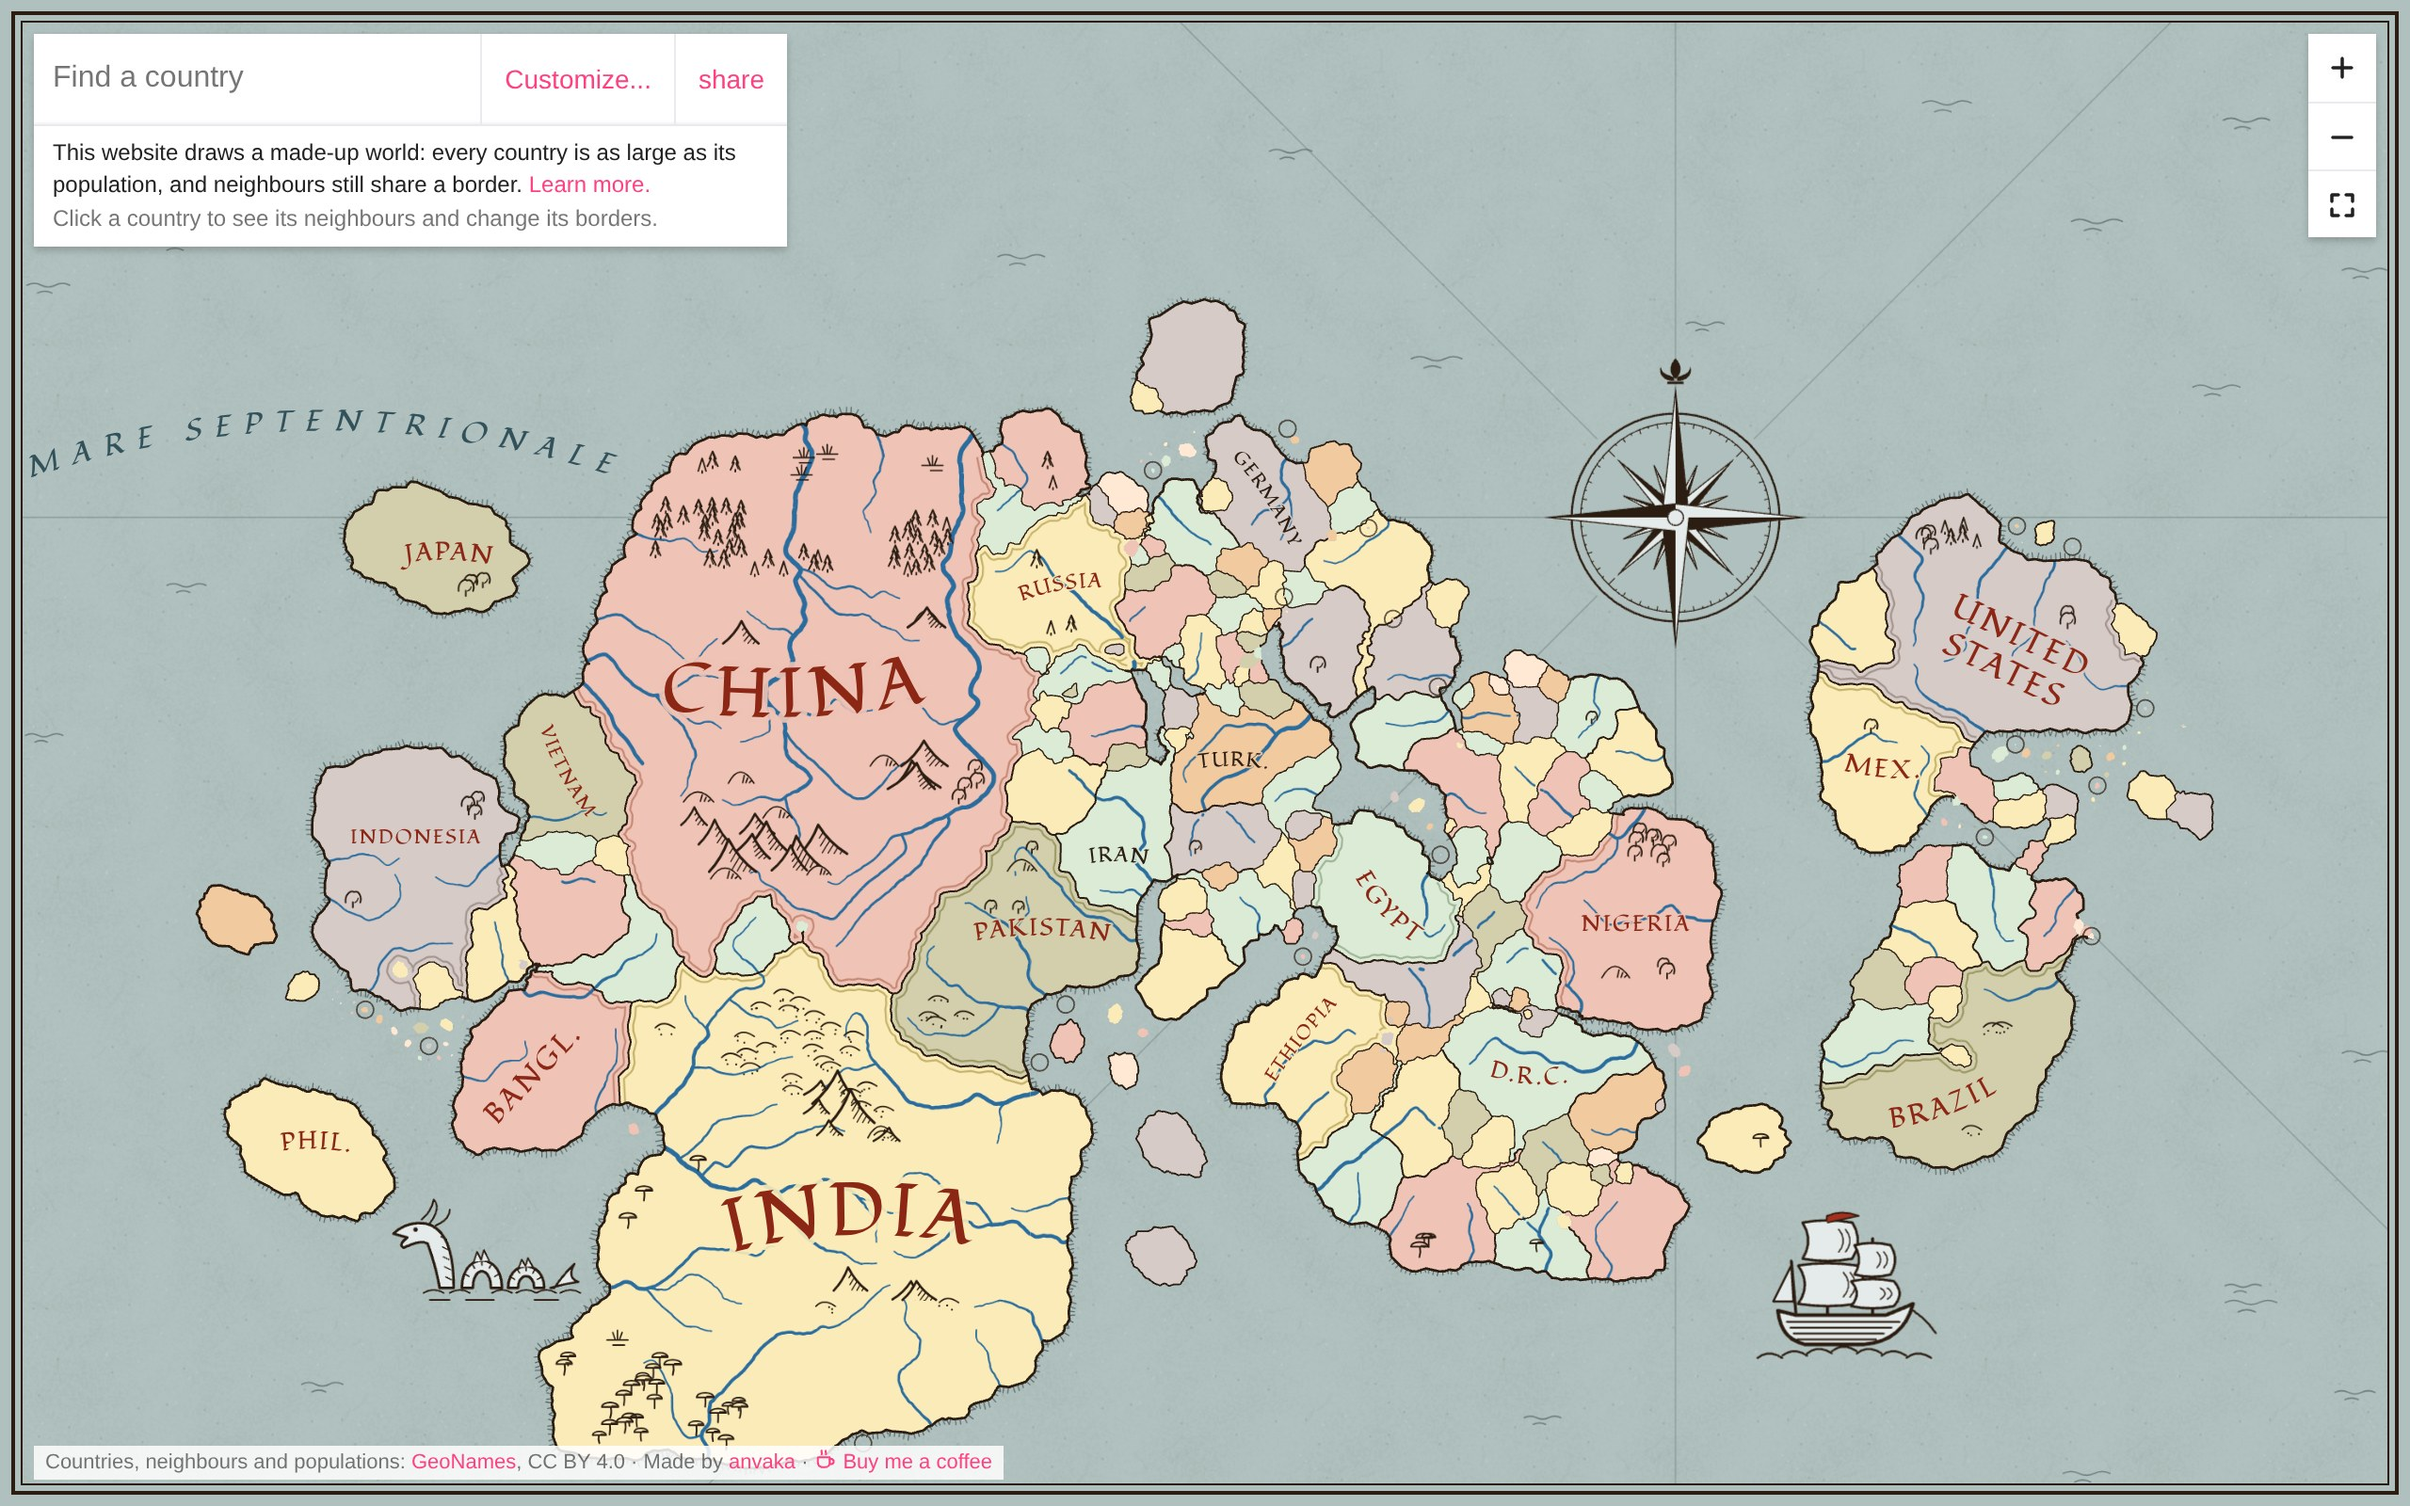
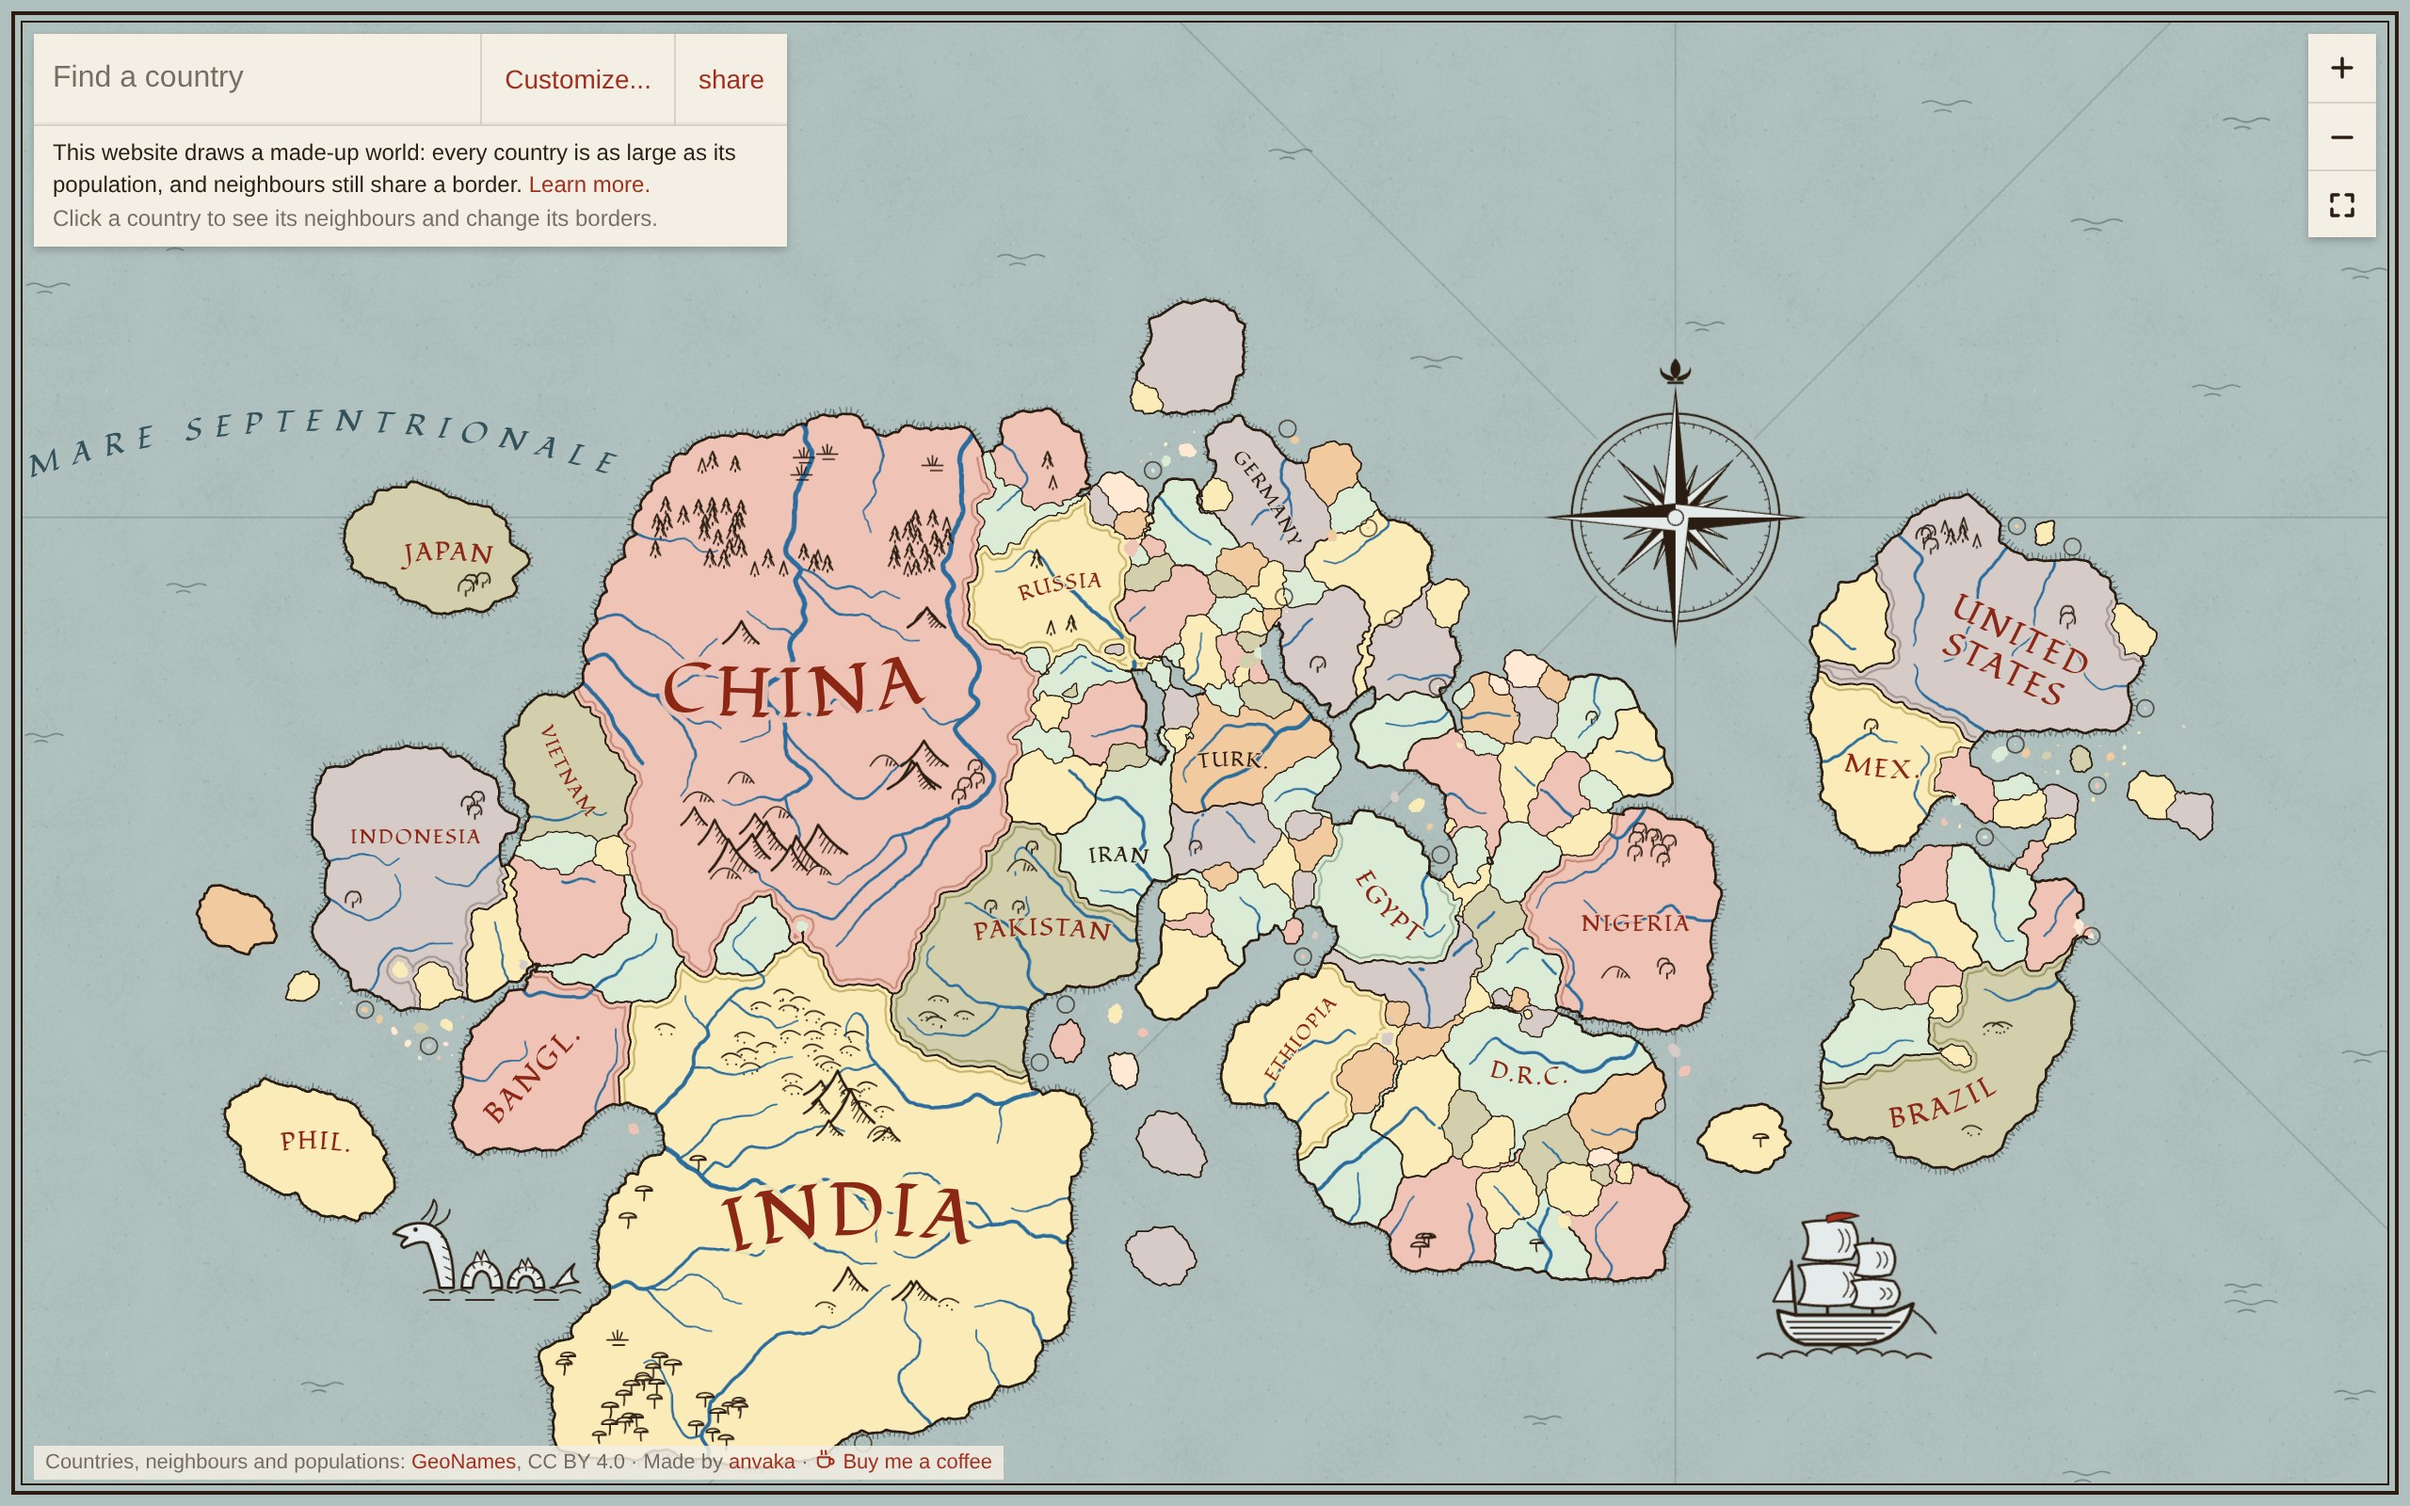
Ink tints the controls: paper panels and the map's own red
On Ink the white panels were the brightest thing on the sheet, and the
pink fought the reds of the map. A style may now set the controls'
colours (--ui-*), and Ink does: panels tinted like its paper, its red
for whatever can be pressed. Its night theme keeps the page's dark
panels and pink, and Realm is unchanged. The README picture is retaken.

Claude-Session: https://claude.ai/code/session_01XkvsTjoUZYTPz2hH7KHLHn

diff --git a/styles/ink.css b/styles/ink.css
@@ -8,6 +8,10 @@
 /* ---------------------------------------------------------------- tokens: day */
 html[data-style="ink"] {
   --sea: #afc0be;              /* the sea: a cool wash over the paper */
+  /* the page's controls on this sheet: panels tinted like its paper, and its red (not the page's
+     pink, which fights the reds of the map) for whatever can be pressed */
+  --ui-bg: #f3efe4; --ui-soft: #e9e4d6; --ui-text: #2b1d12; --ui-text-2: rgba(43, 29, 18, 0.62);
+  --ui-line: rgba(43, 29, 18, 0.14); --ui-accent: #a3301e;
   --ink: #2b1d12;              /* iron-gall brown-black */
   --shore-ink: rgba(33, 45, 48, 0.62);
   --wave-ink: rgba(33, 45, 48, 0.42);
@@ -33,6 +37,7 @@ html[data-style="ink"] {
 /* ---------------------------------------------------------------- tokens: night */
 @media (prefers-color-scheme: dark) {
   html[data-style="ink"]:not([data-theme="light"]) {
+    --ui-accent: #ff4081;       /* (night: the page's dark panels, and its pink: the red is too dark on them) */
     --sea: #121a27;
     --ink: #eadfc4;
     --shore-ink: rgba(170, 196, 210, 0.5);
@@ -55,6 +60,7 @@ html[data-style="ink"] {
   }
 }
 html[data-style="ink"][data-theme="dark"] {
+  --ui-accent: #ff4081;       /* (night: the page's dark panels, and its pink: the red is too dark on them) */
   --sea: #121a27;
   --ink: #eadfc4;
   --shore-ink: rgba(170, 196, 210, 0.5);
@@ -155,8 +161,8 @@ html[data-style="ink"] #ink-frame::after {
 }
 
 /* ---------------------------------------------------------------- the page's controls */
-/* (the page draws its own controls, the same in every style. The sheet's frame takes the first
-   few pixels of the window, so they sit inside it.) */
+/* (the page draws its own controls; this style only tints them, in the tokens at the top. The
+   sheet's frame takes the first few pixels of the window, so they sit inside it.) */
 html[data-style="ink"] { --edge: 18px; }
 html:not([data-style="ink"]) #ink-frame { display: none; }
 

diff --git a/index.html b/index.html
@@ -118,10 +118,11 @@
   /* =========================================================================================
      The controls: the search bar and its panels (top left), the dock (the build in progress,
      your changes, the country panel: bottom right, a sheet at the bottom of a phone), zoom and
-     the credit. They look the same whichever style draws the map: white, square, sans-serif,
-     and one pink for whatever can be pressed. A style's stylesheet draws the map and leaves
-     these alone; it may only say how far from the window's edge they sit (--edge), when it
-     frames the sheet. Layout and controls only: nothing here draws the map, except .hot (the
+     the credit. They are built the same whichever style draws the map: square panels with a
+     soft shadow, sans-serif type, and one colour for whatever can be pressed (white and pink,
+     unless a style says otherwise). A style's stylesheet draws the map; of the controls it may
+     set only their colours (--ui-*) and how far from the window's edge they sit (--edge), when
+     it frames the sheet. Layout and controls only: nothing here draws the map, except .hot (the
      border a neighbour's row points at, at the end).
      ========================================================================================= */
   :root {

diff --git a/docs/internals.md b/docs/internals.md
@@ -141,8 +141,9 @@ moved.
 
 ## Styles
 
-A style draws the map and leaves the page's controls alone: those look the same in every style
-(`--ui-*` in `index.html`). Each style is three files in `styles/`: `<name>.css`, with every rule under
+A style draws the map. The page's controls are built the same in every style; a style may set
+only their colours (`--ui-*` in `index.html`: ink tints the panels like its paper and uses its
+red) and their distance from the window's edge (`--edge`). Each style is three files in `styles/`: `<name>.css`, with every rule under
 `html[data-style="<name>"]`; `<name>.js`, a module that registers `window.mapStyles[<name>]`; and
 `<name>.fonts`, the Google Fonts address it needs. Only the chosen style loads with the page; the
 others load the first time they are picked. The page calls a style's hooks: `render(world)` once
